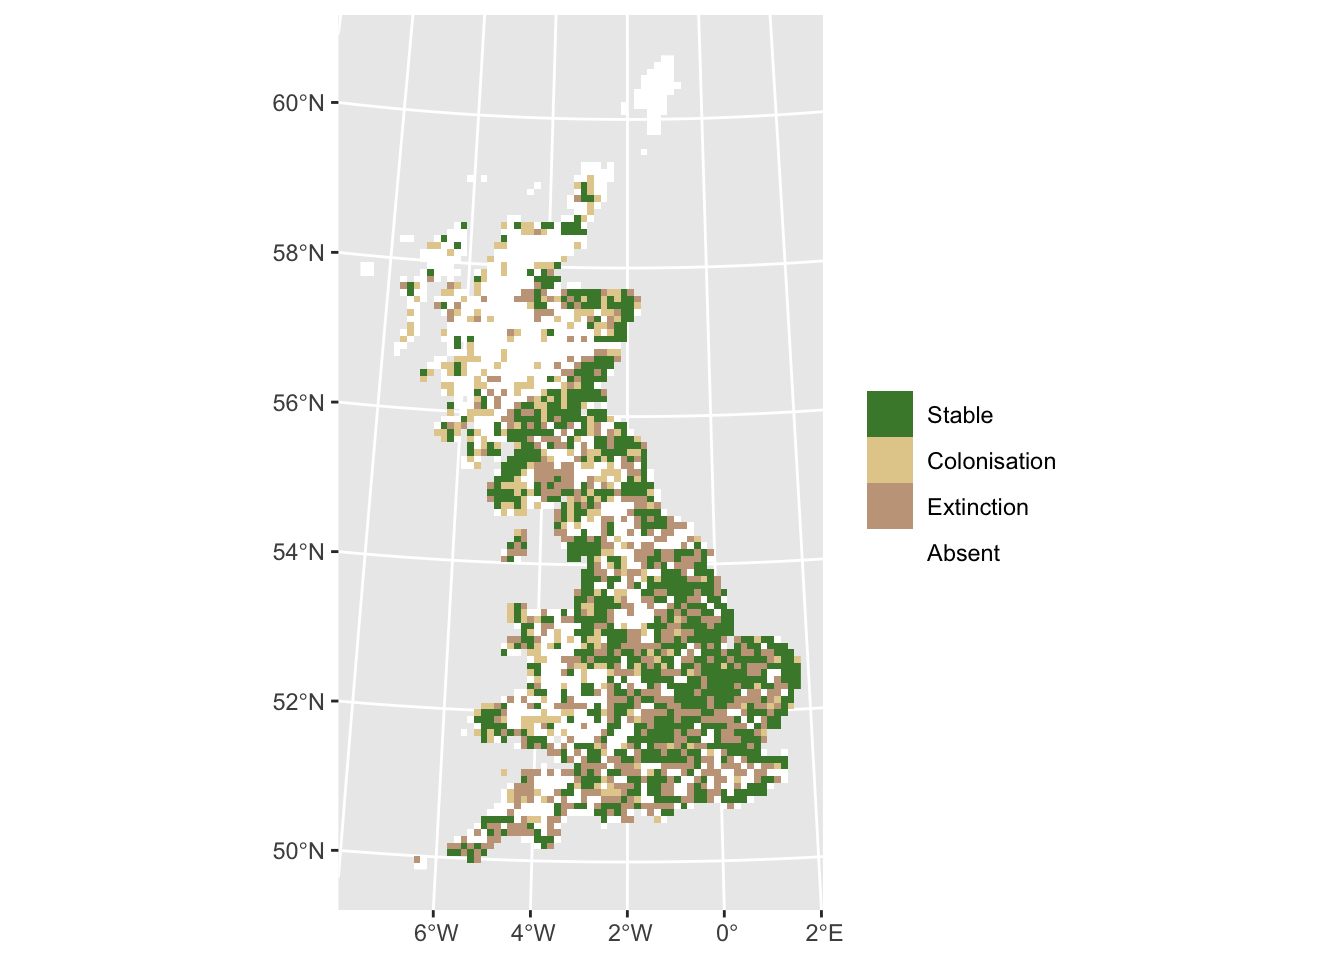
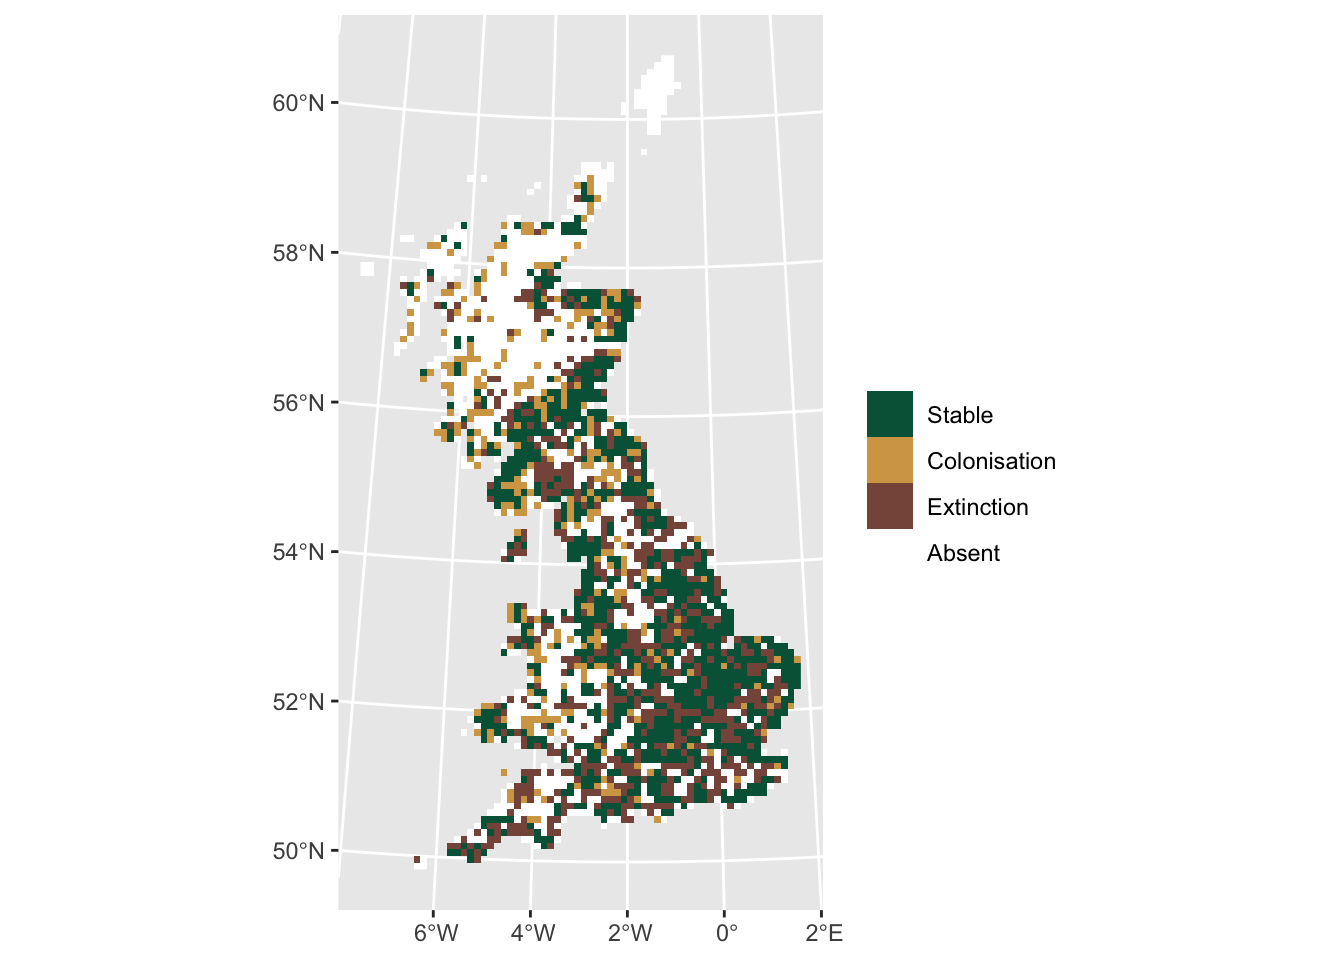
changed tidyterra palette

Changed region(s): [[0.2812, 0.1875, 0.5938, 0.9062], [0.625, 0.4062, 0.6875, 0.5625]]

diff --git a/a6_BiodivChanges.html b/a6_BiodivChanges.html
@@ -866,7 +866,8 @@ diff &lt;- sedge_68+dummy
 
 ggplot() +
   geom_spatraster(data = diff) +
- scale_fill_whitebox_c(
+ scale_fill_hypso_c(
+   palette = &#39;dem_poster&#39;,
    direction = -1,
    guide = guide_legend(reverse = TRUE),
    n.breaks=4,
@@ -874,6 +875,10 @@ ggplot() +
   ) +
   labs(fill = &quot;&quot;)</code></pre>
 <p><img src="a6_BiodivChanges_files/figure-html/unnamed-chunk-17-1.png" width="672" /></p>
+<p>If you want to play around with the gradient palettes in
+<code>tidyterra</code>, here is a good summary of them: <a
+href="https://dieghernan.github.io/tidyterra/articles/palettes.html"
+class="uri">https://dieghernan.github.io/tidyterra/articles/palettes.html</a>.</p>
 <div class="alert alert-success" role="alert">
 <p><strong>Test it yourself</strong></p>
 <ul>
